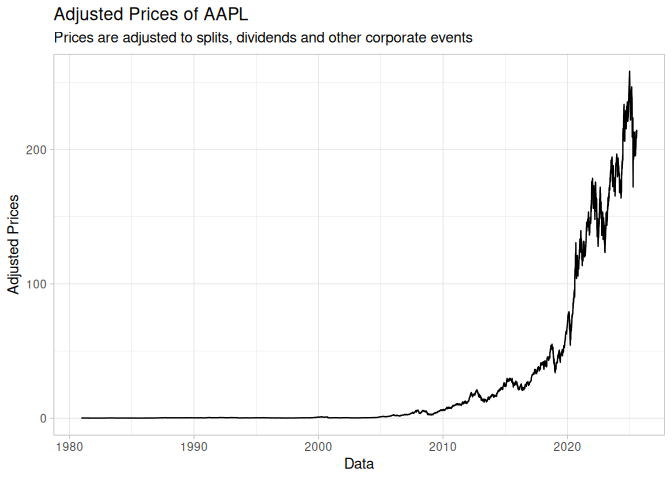
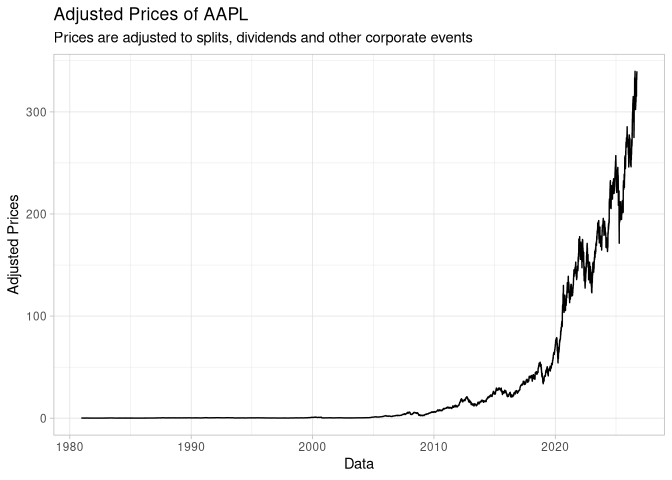
docs: regenerate README and note that live quotes are not cached
The generated README.md still carried the old set_token() output with the
"pourposes" typo that was fixed in 0.7 -- the file was never re-rendered
after that change. Rebuilt with devtools::build_readme(), so the example
outputs now match the current package and data.

Also correct the caching feature bullet: get_real_time() and
get_us_quote_delayed() bypass the cache, so not "all" queries are served
from disk.

diff --git a/README.md b/README.md
@@ -27,21 +27,27 @@ allowing fast and intelligent access to most of the API’s endpoints.
 
 # Features
 
-- A local caching system that saves all API queries to the disk,
-  improving execution time and reducing api calls on repeated queries.
+- A local caching system that saves API queries to the disk, improving
+  execution time and reducing api calls on repeated queries (live quotes
+  are never cached).
+
 - A quota management system, informing the user of how much of the API
   daily quota was used and how much time is left to refresh it.
+
 - Function for aggregating and organizing financial information into a
   single dataframe, allowing easier access to clean financial data in
   the [wide or long
   format](https://libguides.princeton.edu/R-reshape#:~:text=A%20dataset%20can%20be%20written,repeat%20in%20the%20first%20column.&text=We%20can%20see%20that%20in,value%20in%20the%20first%20column).
-- Wrappers for every main endpoint of the API, from prices and fundamentals to options, macro series and sanctions lists (see Coverage below), plus `get_eodhd()` as a generic interface to any endpoint without a dedicated function.
 
+- Wrappers for every main endpoint of the API, from prices and
+  fundamentals to options, macro series and sanctions lists (see
+  Coverage below), plus `get_eodhd()` as a generic interface to any
+  endpoint without a dedicated function.
 
 # Coverage
 
 | Family | Functions |
-|---|---|
+|----|----|
 | Prices and quotes | `get_prices()`, `get_intraday()`, `get_ticks()`, `get_real_time()`, `get_us_quote_delayed()` |
 | Company data | `get_fundamentals()`, `parse_financials()`, `get_bulk_fundamentals()`, `get_historical_market_cap()`, `get_insider_transactions()` |
 | Corporate actions | `get_dividends()`, `get_splits()`, `get_dividends_calendar()`, `get_splits_calendar()` |
@@ -58,7 +64,9 @@ allowing fast and intelligent access to most of the API’s endpoints.
 | Session and account | `set_token()`, `get_demo_token()`, `get_user_info()` |
 | Anything else | `get_eodhd()` |
 
-Some endpoints are only available on particular subscriptions. A call to an endpoint outside your plan returns an explicit error from the API, not empty data.
+Some endpoints are only available on particular subscriptions. A call to
+an endpoint outside your plan returns an explicit error from the API,
+not empty data.
 
 # Installation
 
@@ -98,9 +106,9 @@ token <- eodhdR2::get_demo_token()
 eodhdR2::set_token(token)
 #> ✔ eodhd API token set
 #> ℹ Account name: API Documentation 2 (supportlevel1@eodhistoricaldata.com)
-#> ℹ Quota: 57360 | 10000000
+#> ℹ Quota: 380273 | 10000000
 #> ℹ Subscription: demo
-#> ✖ You are using a **DEMONSTRATION** token for testing pourposes, with
+#> ✖ You are using a **DEMONSTRATION** token for testing purposes, with
 #> limited access to the data repositories. See <https://eodhd.com/>
 #> for registration and, after finding your token, use it with
 #> function eodhdR2::set_token("TOKEN").
@@ -117,26 +125,26 @@ exchange <- "US"
 df_prices <- eodhdR2::get_prices(ticker, exchange)
 #> 
 #> ── retrieving price data for ticker AAPL|US ────────────────────────────────────
-#> ! Quota status: 57360|10000000, refreshing in 11.3 hours
+#> ! Quota status: 380273|10000000, refreshing in 2.77 hours
 #> ℹ cache file AAPL_US_eodhd_prices.rds saved
-#> ✔ got 11246 rows of prices
-#> ℹ got daily data from 1980-12-12 to 2025-07-28
+#> ✔ got 11536 rows of prices
+#> ℹ got daily data from 1980-12-12 to 2026-09-22
 
 head(df_prices)
 #>         date    open    high     low   close adjusted_close    volume ticker
-#> 1 1980-12-12 28.7392 28.8736 28.7392 28.7392         0.0986 469033600   AAPL
-#> 2 1980-12-15 27.3728 27.3728 27.2608 27.2608         0.0935 175884800   AAPL
-#> 3 1980-12-16 25.3792 25.3792 25.2448 25.2448         0.0866 105728000   AAPL
-#> 4 1980-12-17 25.8720 26.0064 25.8720 25.8720         0.0887  86441600   AAPL
-#> 5 1980-12-18 26.6336 26.7456 26.6336 26.6336         0.0914  73449600   AAPL
-#> 6 1980-12-19 28.2464 28.3808 28.2464 28.2464         0.0969  48630400   AAPL
+#> 1 1980-12-12 28.7392 28.8736 28.7392 28.7392         0.0981 469033600   AAPL
+#> 2 1980-12-15 27.3728 27.3728 27.2608 27.2608         0.0931 175884800   AAPL
+#> 3 1980-12-16 25.3792 25.3792 25.2448 25.2448         0.0862 105728000   AAPL
+#> 4 1980-12-17 25.8720 26.0064 25.8720 25.8720         0.0883  86441600   AAPL
+#> 5 1980-12-18 26.6336 26.7456 26.6336 26.6336         0.0909  73449600   AAPL
+#> 6 1980-12-19 28.2464 28.3808 28.2464 28.2464         0.0964  48630400   AAPL
 #>   exchange ret_adj_close
 #> 1       US            NA
-#> 2       US   -0.05172414
-#> 3       US   -0.07379679
-#> 4       US    0.02424942
-#> 5       US    0.03043968
-#> 6       US    0.06017505
+#> 2       US   -0.05096840
+#> 3       US   -0.07411386
+#> 4       US    0.02436195
+#> 5       US    0.02944507
+#> 6       US    0.06050605
 ```
 
 ``` r
@@ -153,7 +161,7 @@ p <- ggplot(df_prices, aes(y = adjusted_close, x = date)) +
 p
 ```
 
-<img src="man/figures/README-unnamed-chunk-6-1.png" width="100%" />
+<img src="man/figures/README-unnamed-chunk-6-1.png" alt="" width="100%" />
 
 ## Retrieving Dividends
 
@@ -164,18 +172,18 @@ exchange <- "US"
 df_div <- eodhdR2::get_dividends(ticker, exchange)
 #> 
 #> ── retrieving dividends for ticker AAPL|US ─────────────────────────────────────
-#> ! Quota status: 57368|10000000, refreshing in 11.3 hours
+#> ! Quota status: 380280|10000000, refreshing in 2.77 hours
 #> ℹ cache file AAPL_US_eodhd_dividends.rds saved
-#> ✔ got 87 rows of dividend data
+#> ✔ got 92 rows of dividend data
 
 head(df_div)
 #>         date ticker exchange declarationDate recordDate paymentDate period
-#> 1 1987-05-11   AAPL       US            <NA>       <NA>        <NA>   <NA>
-#> 2 1987-08-10   AAPL       US            <NA>       <NA>        <NA>   <NA>
-#> 3 1987-11-17   AAPL       US            <NA>       <NA>        <NA>   <NA>
-#> 4 1988-02-12   AAPL       US            <NA>       <NA>        <NA>   <NA>
-#> 5 1988-05-16   AAPL       US            <NA>       <NA>        <NA>   <NA>
-#> 6 1988-08-15   AAPL       US            <NA>       <NA>        <NA>   <NA>
+#> 1 1987-05-11   AAPL       US      1987-04-22 1987-05-15  1987-06-15   <NA>
+#> 2 1987-08-10   AAPL       US      1987-07-31 1987-08-14  1987-09-15   <NA>
+#> 3 1987-11-17   AAPL       US      1987-11-13 1987-11-23  1987-12-15   <NA>
+#> 4 1988-02-12   AAPL       US      1988-01-29 1988-02-19  1988-03-15   <NA>
+#> 5 1988-05-16   AAPL       US      1988-04-29 1988-05-20  1988-06-15   <NA>
+#> 6 1988-08-15   AAPL       US      1988-07-25 1988-08-19  1988-09-15   <NA>
 #>     value unadjustedValue currency
 #> 1 0.00054         0.12096      USD
 #> 2 0.00054         0.06048      USD
@@ -198,7 +206,7 @@ p <- ggplot(df_div, aes(y = value, x = date)) +
 p
 ```
 
-<img src="man/figures/README-unnamed-chunk-8-1.png" width="100%" />
+<img src="man/figures/README-unnamed-chunk-8-1.png" alt="" width="100%" />
 
 ## Retrieving Fundamentals
 
@@ -209,7 +217,7 @@ exchange <- "US"
 l_fun <- eodhdR2::get_fundamentals(ticker, exchange)
 #> 
 #> ── retrieving fundamentals for ticker AAPL|US ──────────────────────────────────
-#> ! Quota status: 57370|10000000, refreshing in 11.3 hours
+#> ! Quota status: 380301|10000000, refreshing in 2.77 hours
 #> ✔ querying API
 #> ✔ got 13 elements in raw list
 
@@ -226,7 +234,7 @@ names(l_fun)
 ``` r
 wide_financials <- eodhdR2::parse_financials(l_fun, "wide")
 #> 
-#> ── Parsing financial data for Apple Inc | AAPL ──
+#> ── Parsing financial data for Apple Inc. | AAPL ──
 #> 
 #> ℹ parsing Balance_Sheet  data
 #> ℹ    quarterly
@@ -237,18 +245,18 @@ wide_financials <- eodhdR2::parse_financials(l_fun, "wide")
 #> ℹ parsing Income_Statement  data
 #> ℹ    quarterly
 #> ℹ    yearly
-#> ✔ got 576 rows of financial data (wide format)
+#> ✔ got 594 rows of financial data (wide format)
 
 head(wide_financials)
 #> # A tibble: 6 × 127
 #>   date       filing_date ticker company_name frequency type_financial
 #>   <date>     <date>      <chr>  <chr>        <chr>     <chr>         
-#> 1 2025-03-31 2025-05-02  AAPL   Apple Inc    quarterly Balance_Sheet 
-#> 2 2024-12-31 2025-01-31  AAPL   Apple Inc    quarterly Balance_Sheet 
-#> 3 2024-09-30 2024-11-01  AAPL   Apple Inc    quarterly Balance_Sheet 
-#> 4 2024-06-30 2024-08-02  AAPL   Apple Inc    quarterly Balance_Sheet 
-#> 5 2024-03-31 2024-05-03  AAPL   Apple Inc    quarterly Balance_Sheet 
-#> 6 2023-12-31 2024-02-02  AAPL   Apple Inc    quarterly Balance_Sheet 
+#> 1 2026-06-30 2026-07-31  AAPL   Apple Inc.   quarterly Balance_Sheet 
+#> 2 2026-03-31 2026-05-01  AAPL   Apple Inc.   quarterly Balance_Sheet 
+#> 3 2025-12-31 2026-01-30  AAPL   Apple Inc.   quarterly Balance_Sheet 
+#> 4 2025-09-30 2025-10-31  AAPL   Apple Inc.   quarterly Balance_Sheet 
+#> 5 2025-06-30 2025-08-01  AAPL   Apple Inc.   quarterly Balance_Sheet 
+#> 6 2025-03-31 2025-05-02  AAPL   Apple Inc.   quarterly Balance_Sheet 
 #> # ℹ 121 more variables: currency_symbol <chr>, totalAssets <dbl>,
 #> #   intangibleAssets <dbl>, earningAssets <dbl>, otherCurrentAssets <dbl>,
 #> #   totalLiab <dbl>, totalStockholderEquity <dbl>, deferredLongTermLiab <dbl>,
@@ -263,7 +271,7 @@ head(wide_financials)
 ``` r
 long_financials <- eodhdR2::parse_financials(l_fun, "long")
 #> 
-#> ── Parsing financial data for Apple Inc | AAPL ──
+#> ── Parsing financial data for Apple Inc. | AAPL ──
 #> 
 #> ℹ parsing Balance_Sheet  data
 #> ℹ    quarterly
@@ -274,17 +282,17 @@ long_financials <- eodhdR2::parse_financials(l_fun, "long")
 #> ℹ parsing Income_Statement  data
 #> ℹ    quarterly
 #> ℹ    yearly
-#> ✔ got 69120 rows of financial data (long format)
+#> ✔ got 71280 rows of financial data (long format)
 
 head(long_financials)
 #> # A tibble: 6 × 9
 #>   date       filing_date ticker company_name frequency type_financial
 #>   <date>     <date>      <chr>  <chr>        <chr>     <chr>         
-#> 1 2025-03-31 2025-05-02  AAPL   Apple Inc    quarterly Balance_Sheet 
-#> 2 2025-03-31 2025-05-02  AAPL   Apple Inc    quarterly Balance_Sheet 
-#> 3 2025-03-31 2025-05-02  AAPL   Apple Inc    quarterly Balance_Sheet 
-#> 4 2025-03-31 2025-05-02  AAPL   Apple Inc    quarterly Balance_Sheet 
-#> 5 2025-03-31 2025-05-02  AAPL   Apple Inc    quarterly Balance_Sheet 
-#> 6 2025-03-31 2025-05-02  AAPL   Apple Inc    quarterly Balance_Sheet 
+#> 1 2026-06-30 2026-07-31  AAPL   Apple Inc.   quarterly Balance_Sheet 
+#> 2 2026-06-30 2026-07-31  AAPL   Apple Inc.   quarterly Balance_Sheet 
+#> 3 2026-06-30 2026-07-31  AAPL   Apple Inc.   quarterly Balance_Sheet 
+#> 4 2026-06-30 2026-07-31  AAPL   Apple Inc.   quarterly Balance_Sheet 
+#> 5 2026-06-30 2026-07-31  AAPL   Apple Inc.   quarterly Balance_Sheet 
+#> 6 2026-06-30 2026-07-31  AAPL   Apple Inc.   quarterly Balance_Sheet 
 #> # ℹ 3 more variables: currency_symbol <chr>, name <chr>, value <dbl>
 ```
